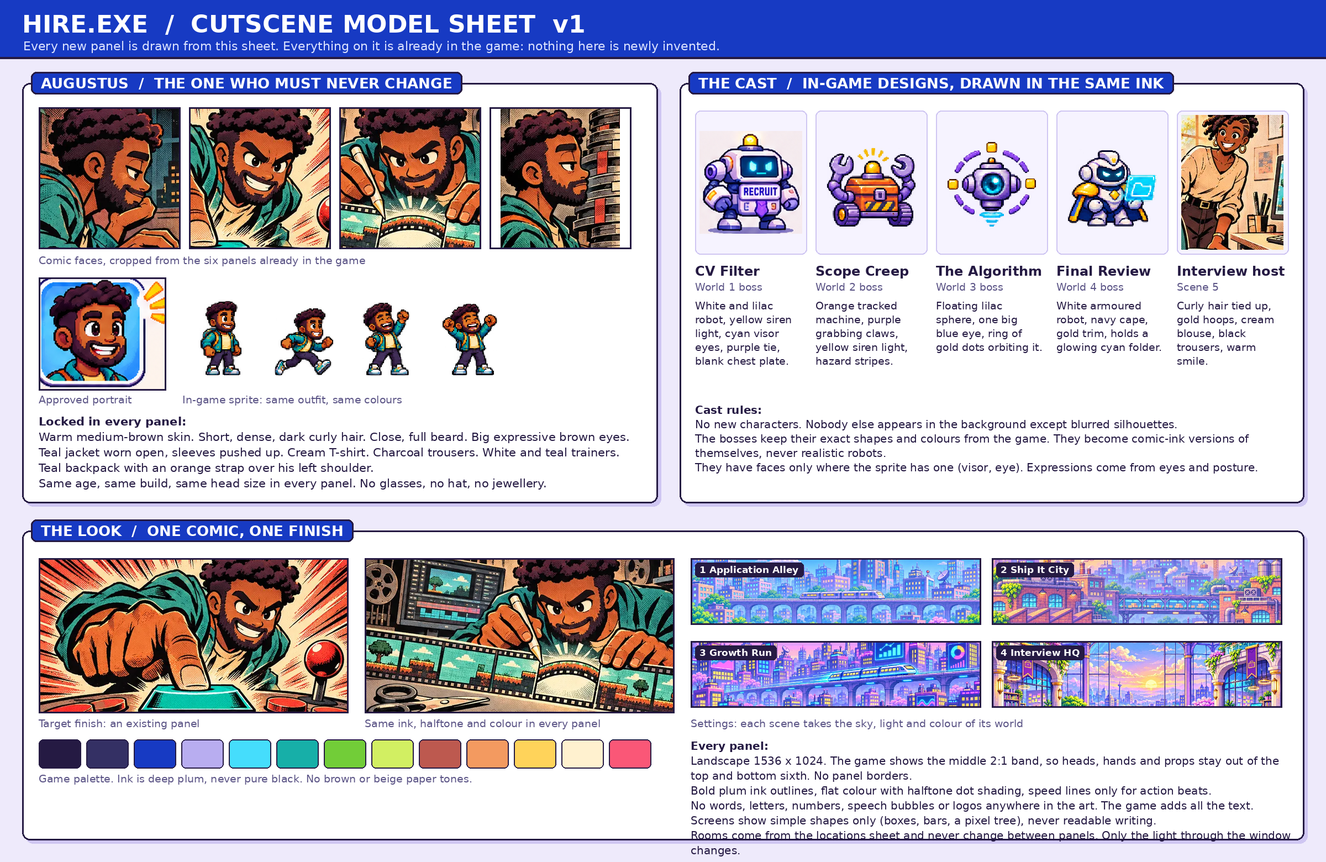
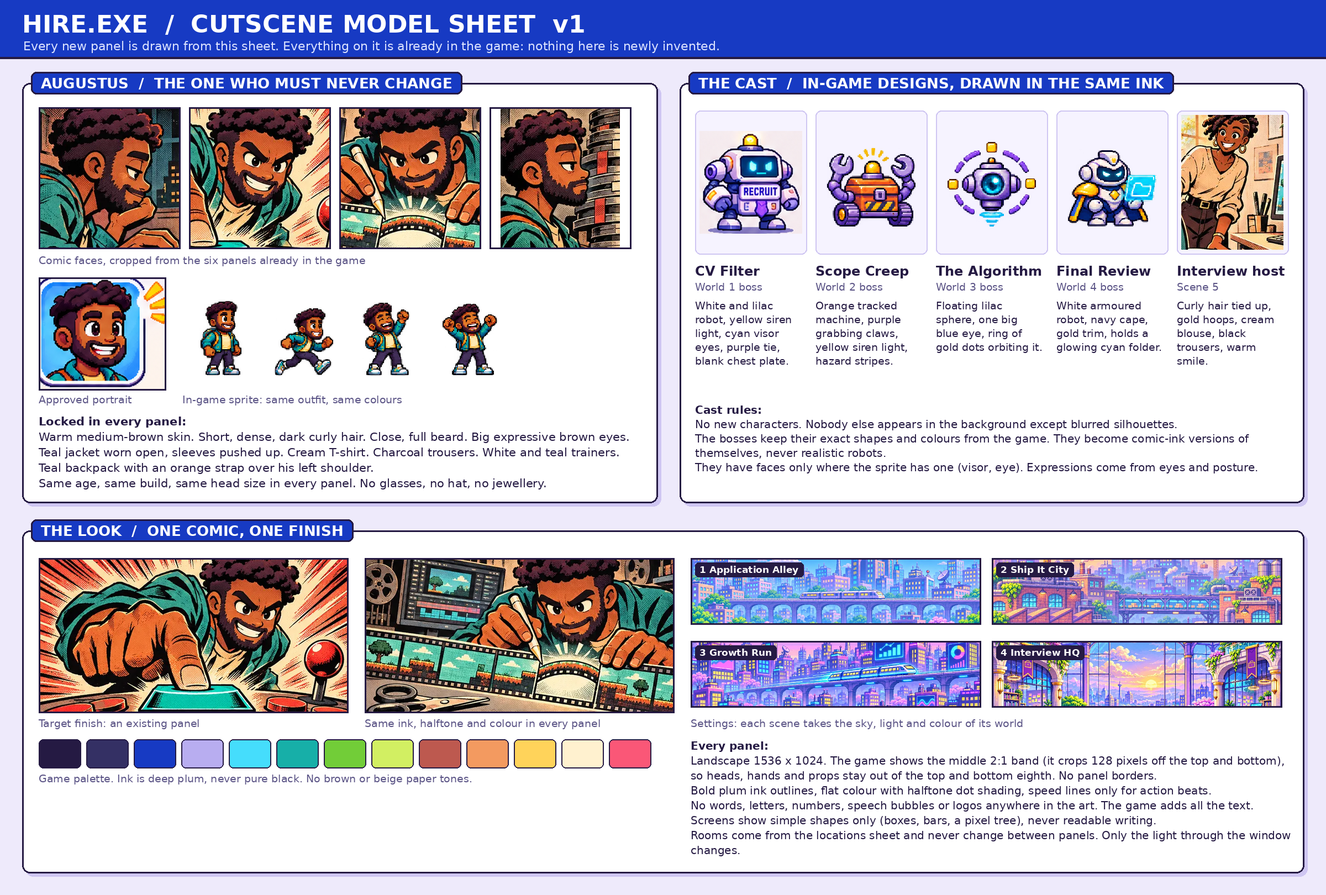
Correct the panel crop guidance to an eighth
A 1536 x 1024 panel in the 2:1 frame keeps the middle 768 pixels, so
128 pixels go from the top and bottom, not 170.

Claude-Session: https://claude.ai/code/session_01TySN1YCnWBJrsHnvS1FJTf

diff --git a/styles.css b/styles.css
@@ -185,7 +185,7 @@
   background-repeat:no-repeat;
   box-shadow:0 0 0 4px #251a43;
 }
-/* A single full panel fills the 2:1 frame; a 3:2 source loses only its top and bottom sixth. */
+/* A single full panel fills the 2:1 frame; a 3:2 source loses only its top and bottom eighth. */
 .comic-panel {background-size:cover;background-position:center}
 .comic-illustrated .comic-effect {left:7%;top:12%}
 .comic-illustrated.comic-burst .comic-illustration {animation:comic-print .24s ease-out both}

diff --git a/tools/cutscene-model-sheet.py b/tools/cutscene-model-sheet.py
@@ -4,7 +4,7 @@ import sys
 from pathlib import Path
 R = str(Path(__file__).resolve().parents[1]) + '/'
 OUT = sys.argv[1]
-W, H = 2400, 1560
+W, H = 2400, 1620
 BG = '#EEEAFB'; INK = '#251A43'; BLUE = '#173AC3'; CARD = '#FFFFFF'; MUTED = '#5B5486'
 F = '/usr/share/fonts/truetype/dejavu/DejaVuSans'
 def font(s, b=False): return ImageFont.truetype(F + ('-Bold' if b else '') + '.ttf', s)
@@ -110,7 +110,7 @@ castnotes = ['Cast rules:',
 text_block(cx0+28, cy0+580, castnotes, size=20, gap=6, width=cw-60, bold_first=True)
 
 # ---- Style
-sx, sy, sw, sh = 40, 960, 2320, 560
+sx, sy, sw, sh = 40, 960, 2320, 620
 card(sx, sy, sw, sh, 'THE LOOK  /  ONE COMIC, ONE FINISH')
 b = (sx+30, sy+50, 560, 280); paste_fit(manga.crop((600, 0, 1200, 300)), b); frame(b)
 d.text((sx+30, sy+338), 'Target finish: an existing panel', font=font(19), fill=MUTED)
@@ -133,7 +133,7 @@ for i, c in enumerate(pal):
     x = sx+30 + i*86; d.rounded_rectangle((x, sy+378, x+76, sy+430), 8, fill=c, outline=INK, width=2)
 d.text((sx+30, sy+438), 'Game palette. Ink is deep plum, never pure black. No brown or beige paper tones.', font=font(19), fill=MUTED)
 rules = ['Every panel:',
- 'Landscape 1536 x 1024. The game shows the middle 2:1 band, so heads, hands and props stay out of the top and bottom sixth. No panel borders.',
+ 'Landscape 1536 x 1024. The game shows the middle 2:1 band (it crops 128 pixels off the top and bottom), so heads, hands and props stay out of the top and bottom eighth. No panel borders.',
  'Bold plum ink outlines, flat colour with halftone dot shading, speed lines only for action beats.',
  'No words, letters, numbers, speech bubbles or logos anywhere in the art. The game adds all the text.',
  'Screens show simple shapes only (boxes, bars, a pixel tree), never readable writing.',

diff --git a/assets/cutscenes/PANEL-BRIEF.md b/assets/cutscenes/PANEL-BRIEF.md
@@ -30,7 +30,7 @@ On Edem's Mac: use the `gpt-image-bridge` skill with the model `gpt-5.6-terra`, 
 ## Size and framing
 
 - Generate each panel at **1536 x 1024** (landscape 3:2).
-- The game shows the panel in a **2:1 frame**, so it crops the top and bottom sixth (roughly 170 pixels off each). Heads, hands and key props stay in the middle band.
+- The game shows the panel in a **2:1 frame**, so it crops the top and bottom eighth (128 pixels off each, leaving the middle 768). Heads, hands and key props stay in the middle band.
 - The game puts a tilted sound-effect sticker over the **top-left corner** (about the left third and top quarter of the visible frame). Keep faces out of it.
 - The dialogue sits below the picture, so panels never need speech bubbles or text.
 
@@ -42,7 +42,7 @@ On Edem's Mac: use the `gpt-image-bridge` skill with the model `gpt-5.6-terra`, 
 - [ ] Only the window light changes between scenes: night (1), sunset (2), twilight (3), dawn (4). Scene 5 is the interview room in morning daylight.
 - [ ] Same ink and halftone as the existing panels. Deep plum outlines. No brown or beige sepia cast.
 - [ ] No words, letters, numbers, logos or speech bubbles anywhere. Screens show shapes only.
-- [ ] Faces are out of the top-left corner. Nothing important sits in the top or bottom sixth.
+- [ ] Faces are out of the top-left corner. Nothing important sits in the top or bottom eighth.
 
 ## Where each panel appears
 
@@ -73,7 +73,7 @@ Each prompt is complete. Paste the whole block, attach the references, and gener
 Scene 1, *Forty boxes*. Room: home studio. Save as `assets/production/story/panels/p01-forty-boxes.jpg`.
 
 ```text
-Style: one comic-book panel that matches the attached existing panels exactly. Bold deep-plum ink outlines (never pure black), flat colour with halftone dot shading, a light printed texture, expressive faces and clean, readable shapes. Palette: teal, cyan, warm orange, gold, coral and lilac, with deep navy and plum shadows and cream highlights. No brown or beige sepia cast over the image. Landscape 3:2. The top and bottom sixth of the image will be cropped away, so keep every head, hand and key prop inside the middle two-thirds of the height. Keep faces out of the top-left corner, where the game places a sound-effect sticker. No words, letters, numbers, speech bubbles, captions, signatures or logos anywhere; screens show simple shapes only. No panel border.
+Style: one comic-book panel that matches the attached existing panels exactly. Bold deep-plum ink outlines (never pure black), flat colour with halftone dot shading, a light printed texture, expressive faces and clean, readable shapes. Palette: teal, cyan, warm orange, gold, coral and lilac, with deep navy and plum shadows and cream highlights. No brown or beige sepia cast over the image. Landscape 3:2. The top and bottom eighth of the image will be cropped away, so keep every head, hand and key prop inside the middle three-quarters of the height. Keep faces out of the top-left corner, where the game places a sound-effect sticker. No words, letters, numbers, speech bubbles, captions, signatures or logos anywhere; screens show simple shapes only. No panel border.
 
 Augustus: an adult man with warm medium-brown skin, short dense dark curly hair, a close full beard and big expressive brown eyes. He wears a teal jacket worn open with the sleeves pushed up, a cream T-shirt, charcoal trousers, white and teal trainers, and a teal backpack with an orange strap over his left shoulder. No glasses, no hat, no jewellery. He must look exactly like the man on the attached model sheet and in the attached existing panels: same face, same build, same head size.
 
@@ -91,7 +91,7 @@ The moment: Medium-wide shot from the front right of the room. Augustus sits at 
 Scene 1, *Forty boxes*. Room: home studio. Save as `assets/production/story/panels/p02-four-of-me.jpg`.
 
 ```text
-Style: one comic-book panel that matches the attached existing panels exactly. Bold deep-plum ink outlines (never pure black), flat colour with halftone dot shading, a light printed texture, expressive faces and clean, readable shapes. Palette: teal, cyan, warm orange, gold, coral and lilac, with deep navy and plum shadows and cream highlights. No brown or beige sepia cast over the image. Landscape 3:2. The top and bottom sixth of the image will be cropped away, so keep every head, hand and key prop inside the middle two-thirds of the height. Keep faces out of the top-left corner, where the game places a sound-effect sticker. No words, letters, numbers, speech bubbles, captions, signatures or logos anywhere; screens show simple shapes only. No panel border.
+Style: one comic-book panel that matches the attached existing panels exactly. Bold deep-plum ink outlines (never pure black), flat colour with halftone dot shading, a light printed texture, expressive faces and clean, readable shapes. Palette: teal, cyan, warm orange, gold, coral and lilac, with deep navy and plum shadows and cream highlights. No brown or beige sepia cast over the image. Landscape 3:2. The top and bottom eighth of the image will be cropped away, so keep every head, hand and key prop inside the middle three-quarters of the height. Keep faces out of the top-left corner, where the game places a sound-effect sticker. No words, letters, numbers, speech bubbles, captions, signatures or logos anywhere; screens show simple shapes only. No panel border.
 
 Augustus: an adult man with warm medium-brown skin, short dense dark curly hair, a close full beard and big expressive brown eyes. He wears a teal jacket worn open with the sleeves pushed up, a cream T-shirt, charcoal trousers, white and teal trainers, and a teal backpack with an orange strap over his left shoulder. No glasses, no hat, no jewellery. He must look exactly like the man on the attached model sheet and in the attached existing panels: same face, same build, same head size.
 
@@ -107,7 +107,7 @@ The moment: Wide shot, straight on to the desk. Four identical copies of Augustu
 Scene 2, *A few changes*. Room: home studio. Save as `assets/production/story/panels/p03-few-changes.jpg`.
 
 ```text
-Style: one comic-book panel that matches the attached existing panels exactly. Bold deep-plum ink outlines (never pure black), flat colour with halftone dot shading, a light printed texture, expressive faces and clean, readable shapes. Palette: teal, cyan, warm orange, gold, coral and lilac, with deep navy and plum shadows and cream highlights. No brown or beige sepia cast over the image. Landscape 3:2. The top and bottom sixth of the image will be cropped away, so keep every head, hand and key prop inside the middle two-thirds of the height. Keep faces out of the top-left corner, where the game places a sound-effect sticker. No words, letters, numbers, speech bubbles, captions, signatures or logos anywhere; screens show simple shapes only. No panel border.
+Style: one comic-book panel that matches the attached existing panels exactly. Bold deep-plum ink outlines (never pure black), flat colour with halftone dot shading, a light printed texture, expressive faces and clean, readable shapes. Palette: teal, cyan, warm orange, gold, coral and lilac, with deep navy and plum shadows and cream highlights. No brown or beige sepia cast over the image. Landscape 3:2. The top and bottom eighth of the image will be cropped away, so keep every head, hand and key prop inside the middle three-quarters of the height. Keep faces out of the top-left corner, where the game places a sound-effect sticker. No words, letters, numbers, speech bubbles, captions, signatures or logos anywhere; screens show simple shapes only. No panel border.
 
 Augustus: an adult man with warm medium-brown skin, short dense dark curly hair, a close full beard and big expressive brown eyes. He wears a teal jacket worn open with the sleeves pushed up, a cream T-shirt, charcoal trousers, white and teal trainers, and a teal backpack with an orange strap over his left shoulder. No glasses, no hat, no jewellery. He must look exactly like the man on the attached model sheet and in the attached existing panels: same face, same build, same head size.
 
@@ -125,7 +125,7 @@ The moment: Medium-wide shot. Scope Creep has rolled in through the door on the 
 Scene 2, *A few changes*. Room: home studio. Save as `assets/production/story/panels/p04-small-ocean.jpg`.
 
 ```text
-Style: one comic-book panel that matches the attached existing panels exactly. Bold deep-plum ink outlines (never pure black), flat colour with halftone dot shading, a light printed texture, expressive faces and clean, readable shapes. Palette: teal, cyan, warm orange, gold, coral and lilac, with deep navy and plum shadows and cream highlights. No brown or beige sepia cast over the image. Landscape 3:2. The top and bottom sixth of the image will be cropped away, so keep every head, hand and key prop inside the middle two-thirds of the height. Keep faces out of the top-left corner, where the game places a sound-effect sticker. No words, letters, numbers, speech bubbles, captions, signatures or logos anywhere; screens show simple shapes only. No panel border.
+Style: one comic-book panel that matches the attached existing panels exactly. Bold deep-plum ink outlines (never pure black), flat colour with halftone dot shading, a light printed texture, expressive faces and clean, readable shapes. Palette: teal, cyan, warm orange, gold, coral and lilac, with deep navy and plum shadows and cream highlights. No brown or beige sepia cast over the image. Landscape 3:2. The top and bottom eighth of the image will be cropped away, so keep every head, hand and key prop inside the middle three-quarters of the height. Keep faces out of the top-left corner, where the game places a sound-effect sticker. No words, letters, numbers, speech bubbles, captions, signatures or logos anywhere; screens show simple shapes only. No panel border.
 
 Augustus: an adult man with warm medium-brown skin, short dense dark curly hair, a close full beard and big expressive brown eyes. He wears a teal jacket worn open with the sleeves pushed up, a cream T-shirt, charcoal trousers, white and teal trainers, and a teal backpack with an orange strap over his left shoulder. No glasses, no hat, no jewellery. He must look exactly like the man on the attached model sheet and in the attached existing panels: same face, same build, same head size.
 
@@ -143,7 +143,7 @@ The moment: Closer shot at the desk. Scope Creep holds a sloshing goldfish bowl 
 Scene 3, *Your numbers are in*. Room: home studio. Save as `assets/production/story/panels/p05-two-players.jpg`.
 
 ```text
-Style: one comic-book panel that matches the attached existing panels exactly. Bold deep-plum ink outlines (never pure black), flat colour with halftone dot shading, a light printed texture, expressive faces and clean, readable shapes. Palette: teal, cyan, warm orange, gold, coral and lilac, with deep navy and plum shadows and cream highlights. No brown or beige sepia cast over the image. Landscape 3:2. The top and bottom sixth of the image will be cropped away, so keep every head, hand and key prop inside the middle two-thirds of the height. Keep faces out of the top-left corner, where the game places a sound-effect sticker. No words, letters, numbers, speech bubbles, captions, signatures or logos anywhere; screens show simple shapes only. No panel border.
+Style: one comic-book panel that matches the attached existing panels exactly. Bold deep-plum ink outlines (never pure black), flat colour with halftone dot shading, a light printed texture, expressive faces and clean, readable shapes. Palette: teal, cyan, warm orange, gold, coral and lilac, with deep navy and plum shadows and cream highlights. No brown or beige sepia cast over the image. Landscape 3:2. The top and bottom eighth of the image will be cropped away, so keep every head, hand and key prop inside the middle three-quarters of the height. Keep faces out of the top-left corner, where the game places a sound-effect sticker. No words, letters, numbers, speech bubbles, captions, signatures or logos anywhere; screens show simple shapes only. No panel border.
 
 Augustus: an adult man with warm medium-brown skin, short dense dark curly hair, a close full beard and big expressive brown eyes. He wears a teal jacket worn open with the sleeves pushed up, a cream T-shirt, charcoal trousers, white and teal trainers, and a teal backpack with an orange strap over his left shoulder. No glasses, no hat, no jewellery. He must look exactly like the man on the attached model sheet and in the attached existing panels: same face, same build, same head size.
 
@@ -161,7 +161,7 @@ The moment: Medium shot. The Algorithm floats above the desk, its eye half-close
 Scene 3, *Your numbers are in*. Room: home studio. Save as `assets/production/story/panels/p06-every-day.jpg`.
 
 ```text
-Style: one comic-book panel that matches the attached existing panels exactly. Bold deep-plum ink outlines (never pure black), flat colour with halftone dot shading, a light printed texture, expressive faces and clean, readable shapes. Palette: teal, cyan, warm orange, gold, coral and lilac, with deep navy and plum shadows and cream highlights. No brown or beige sepia cast over the image. Landscape 3:2. The top and bottom sixth of the image will be cropped away, so keep every head, hand and key prop inside the middle two-thirds of the height. Keep faces out of the top-left corner, where the game places a sound-effect sticker. No words, letters, numbers, speech bubbles, captions, signatures or logos anywhere; screens show simple shapes only. No panel border.
+Style: one comic-book panel that matches the attached existing panels exactly. Bold deep-plum ink outlines (never pure black), flat colour with halftone dot shading, a light printed texture, expressive faces and clean, readable shapes. Palette: teal, cyan, warm orange, gold, coral and lilac, with deep navy and plum shadows and cream highlights. No brown or beige sepia cast over the image. Landscape 3:2. The top and bottom eighth of the image will be cropped away, so keep every head, hand and key prop inside the middle three-quarters of the height. Keep faces out of the top-left corner, where the game places a sound-effect sticker. No words, letters, numbers, speech bubbles, captions, signatures or logos anywhere; screens show simple shapes only. No panel border.
 
 Augustus: an adult man with warm medium-brown skin, short dense dark curly hair, a close full beard and big expressive brown eyes. He wears a teal jacket worn open with the sleeves pushed up, a cream T-shirt, charcoal trousers, white and teal trainers, and a teal backpack with an orange strap over his left shoulder. No glasses, no hat, no jewellery. He must look exactly like the man on the attached model sheet and in the attached existing panels: same face, same build, same head size.
 
@@ -179,7 +179,7 @@ The moment: Close two-shot at the desk. The Algorithm has drifted right up besid
 Scene 3, *Your numbers are in*. Room: home studio. Action panel. Save as `assets/production/story/panels/p07-pester.jpg`.
 
 ```text
-Style: one comic-book panel that matches the attached existing panels exactly. Bold deep-plum ink outlines (never pure black), flat colour with halftone dot shading, a light printed texture, expressive faces and clean, readable shapes. Palette: teal, cyan, warm orange, gold, coral and lilac, with deep navy and plum shadows and cream highlights. No brown or beige sepia cast over the image. Landscape 3:2. The top and bottom sixth of the image will be cropped away, so keep every head, hand and key prop inside the middle two-thirds of the height. Keep faces out of the top-left corner, where the game places a sound-effect sticker. No words, letters, numbers, speech bubbles, captions, signatures or logos anywhere; screens show simple shapes only. No panel border.
+Style: one comic-book panel that matches the attached existing panels exactly. Bold deep-plum ink outlines (never pure black), flat colour with halftone dot shading, a light printed texture, expressive faces and clean, readable shapes. Palette: teal, cyan, warm orange, gold, coral and lilac, with deep navy and plum shadows and cream highlights. No brown or beige sepia cast over the image. Landscape 3:2. The top and bottom eighth of the image will be cropped away, so keep every head, hand and key prop inside the middle three-quarters of the height. Keep faces out of the top-left corner, where the game places a sound-effect sticker. No words, letters, numbers, speech bubbles, captions, signatures or logos anywhere; screens show simple shapes only. No panel border.
 
 Augustus: an adult man with warm medium-brown skin, short dense dark curly hair, a close full beard and big expressive brown eyes. He wears a teal jacket worn open with the sleeves pushed up, a cream T-shirt, charcoal trousers, white and teal trainers, and a teal backpack with an orange strap over his left shoulder. No glasses, no hat, no jewellery. He must look exactly like the man on the attached model sheet and in the attached existing panels: same face, same build, same head size.
 
@@ -197,7 +197,7 @@ The moment: Action panel. Augustus springs up from the desk and strides towards 
 Scene 4, *Please find attached*. Room: home studio. Save as `assets/production/story/panels/p08-draft-nineteen.jpg`.
 
 ```text
-Style: one comic-book panel that matches the attached existing panels exactly. Bold deep-plum ink outlines (never pure black), flat colour with halftone dot shading, a light printed texture, expressive faces and clean, readable shapes. Palette: teal, cyan, warm orange, gold, coral and lilac, with deep navy and plum shadows and cream highlights. No brown or beige sepia cast over the image. Landscape 3:2. The top and bottom sixth of the image will be cropped away, so keep every head, hand and key prop inside the middle two-thirds of the height. Keep faces out of the top-left corner, where the game places a sound-effect sticker. No words, letters, numbers, speech bubbles, captions, signatures or logos anywhere; screens show simple shapes only. No panel border.
+Style: one comic-book panel that matches the attached existing panels exactly. Bold deep-plum ink outlines (never pure black), flat colour with halftone dot shading, a light printed texture, expressive faces and clean, readable shapes. Palette: teal, cyan, warm orange, gold, coral and lilac, with deep navy and plum shadows and cream highlights. No brown or beige sepia cast over the image. Landscape 3:2. The top and bottom eighth of the image will be cropped away, so keep every head, hand and key prop inside the middle three-quarters of the height. Keep faces out of the top-left corner, where the game places a sound-effect sticker. No words, letters, numbers, speech bubbles, captions, signatures or logos anywhere; screens show simple shapes only. No panel border.
 
 Augustus: an adult man with warm medium-brown skin, short dense dark curly hair, a close full beard and big expressive brown eyes. He wears a teal jacket worn open with the sleeves pushed up, a cream T-shirt, charcoal trousers, white and teal trainers, and a teal backpack with an orange strap over his left shoulder. No glasses, no hat, no jewellery. He must look exactly like the man on the attached model sheet and in the attached existing panels: same face, same build, same head size.
 
@@ -213,7 +213,7 @@ The moment: Medium shot. Augustus is slumped over the desk, chin on his folded a
 Scene 4, *Please find attached*. Room: home studio. Save as `assets/production/story/panels/p09-nothing-attached.jpg`.
 
 ```text
-Style: one comic-book panel that matches the attached existing panels exactly. Bold deep-plum ink outlines (never pure black), flat colour with halftone dot shading, a light printed texture, expressive faces and clean, readable shapes. Palette: teal, cyan, warm orange, gold, coral and lilac, with deep navy and plum shadows and cream highlights. No brown or beige sepia cast over the image. Landscape 3:2. The top and bottom sixth of the image will be cropped away, so keep every head, hand and key prop inside the middle two-thirds of the height. Keep faces out of the top-left corner, where the game places a sound-effect sticker. No words, letters, numbers, speech bubbles, captions, signatures or logos anywhere; screens show simple shapes only. No panel border.
+Style: one comic-book panel that matches the attached existing panels exactly. Bold deep-plum ink outlines (never pure black), flat colour with halftone dot shading, a light printed texture, expressive faces and clean, readable shapes. Palette: teal, cyan, warm orange, gold, coral and lilac, with deep navy and plum shadows and cream highlights. No brown or beige sepia cast over the image. Landscape 3:2. The top and bottom eighth of the image will be cropped away, so keep every head, hand and key prop inside the middle three-quarters of the height. Keep faces out of the top-left corner, where the game places a sound-effect sticker. No words, letters, numbers, speech bubbles, captions, signatures or logos anywhere; screens show simple shapes only. No panel border.
 
 Augustus: an adult man with warm medium-brown skin, short dense dark curly hair, a close full beard and big expressive brown eyes. He wears a teal jacket worn open with the sleeves pushed up, a cream T-shirt, charcoal trousers, white and teal trainers, and a teal backpack with an orange strap over his left shoulder. No glasses, no hat, no jewellery. He must look exactly like the man on the attached model sheet and in the attached existing panels: same face, same build, same head size.
 
@@ -229,7 +229,7 @@ The moment: Comedy reaction shot. The big window is pushed open and a white pape
 Scene 5, *You’re up*. Room: interview room. Save as `assets/production/story/panels/p10-traffic.jpg`.
 
 ```text
-Style: one comic-book panel that matches the attached existing panels exactly. Bold deep-plum ink outlines (never pure black), flat colour with halftone dot shading, a light printed texture, expressive faces and clean, readable shapes. Palette: teal, cyan, warm orange, gold, coral and lilac, with deep navy and plum shadows and cream highlights. No brown or beige sepia cast over the image. Landscape 3:2. The top and bottom sixth of the image will be cropped away, so keep every head, hand and key prop inside the middle two-thirds of the height. Keep faces out of the top-left corner, where the game places a sound-effect sticker. No words, letters, numbers, speech bubbles, captions, signatures or logos anywhere; screens show simple shapes only. No panel border.
+Style: one comic-book panel that matches the attached existing panels exactly. Bold deep-plum ink outlines (never pure black), flat colour with halftone dot shading, a light printed texture, expressive faces and clean, readable shapes. Palette: teal, cyan, warm orange, gold, coral and lilac, with deep navy and plum shadows and cream highlights. No brown or beige sepia cast over the image. Landscape 3:2. The top and bottom eighth of the image will be cropped away, so keep every head, hand and key prop inside the middle three-quarters of the height. Keep faces out of the top-left corner, where the game places a sound-effect sticker. No words, letters, numbers, speech bubbles, captions, signatures or logos anywhere; screens show simple shapes only. No panel border.
 
 Augustus: an adult man with warm medium-brown skin, short dense dark curly hair, a close full beard and big expressive brown eyes. He wears a teal jacket worn open with the sleeves pushed up, a cream T-shirt, charcoal trousers, white and teal trainers, and a teal backpack with an orange strap over his left shoulder. No glasses, no hat, no jewellery. He must look exactly like the man on the attached model sheet and in the attached existing panels: same face, same build, same head size.
 
@@ -245,7 +245,7 @@ The moment: Medium shot across the desk. Augustus sits upright in the teal chair
 Scene 5, *You’re up*. Room: interview room. Action panel. Save as `assets/production/story/panels/p11-same-answer.jpg`.
 
 ```text
-Style: one comic-book panel that matches the attached existing panels exactly. Bold deep-plum ink outlines (never pure black), flat colour with halftone dot shading, a light printed texture, expressive faces and clean, readable shapes. Palette: teal, cyan, warm orange, gold, coral and lilac, with deep navy and plum shadows and cream highlights. No brown or beige sepia cast over the image. Landscape 3:2. The top and bottom sixth of the image will be cropped away, so keep every head, hand and key prop inside the middle two-thirds of the height. Keep faces out of the top-left corner, where the game places a sound-effect sticker. No words, letters, numbers, speech bubbles, captions, signatures or logos anywhere; screens show simple shapes only. No panel border.
+Style: one comic-book panel that matches the attached existing panels exactly. Bold deep-plum ink outlines (never pure black), flat colour with halftone dot shading, a light printed texture, expressive faces and clean, readable shapes. Palette: teal, cyan, warm orange, gold, coral and lilac, with deep navy and plum shadows and cream highlights. No brown or beige sepia cast over the image. Landscape 3:2. The top and bottom eighth of the image will be cropped away, so keep every head, hand and key prop inside the middle three-quarters of the height. Keep faces out of the top-left corner, where the game places a sound-effect sticker. No words, letters, numbers, speech bubbles, captions, signatures or logos anywhere; screens show simple shapes only. No panel border.
 
 Augustus: an adult man with warm medium-brown skin, short dense dark curly hair, a close full beard and big expressive brown eyes. He wears a teal jacket worn open with the sleeves pushed up, a cream T-shirt, charcoal trousers, white and teal trainers, and a teal backpack with an orange strap over his left shoulder. No glasses, no hat, no jewellery. He must look exactly like the man on the attached model sheet and in the attached existing panels: same face, same build, same head size.
 
